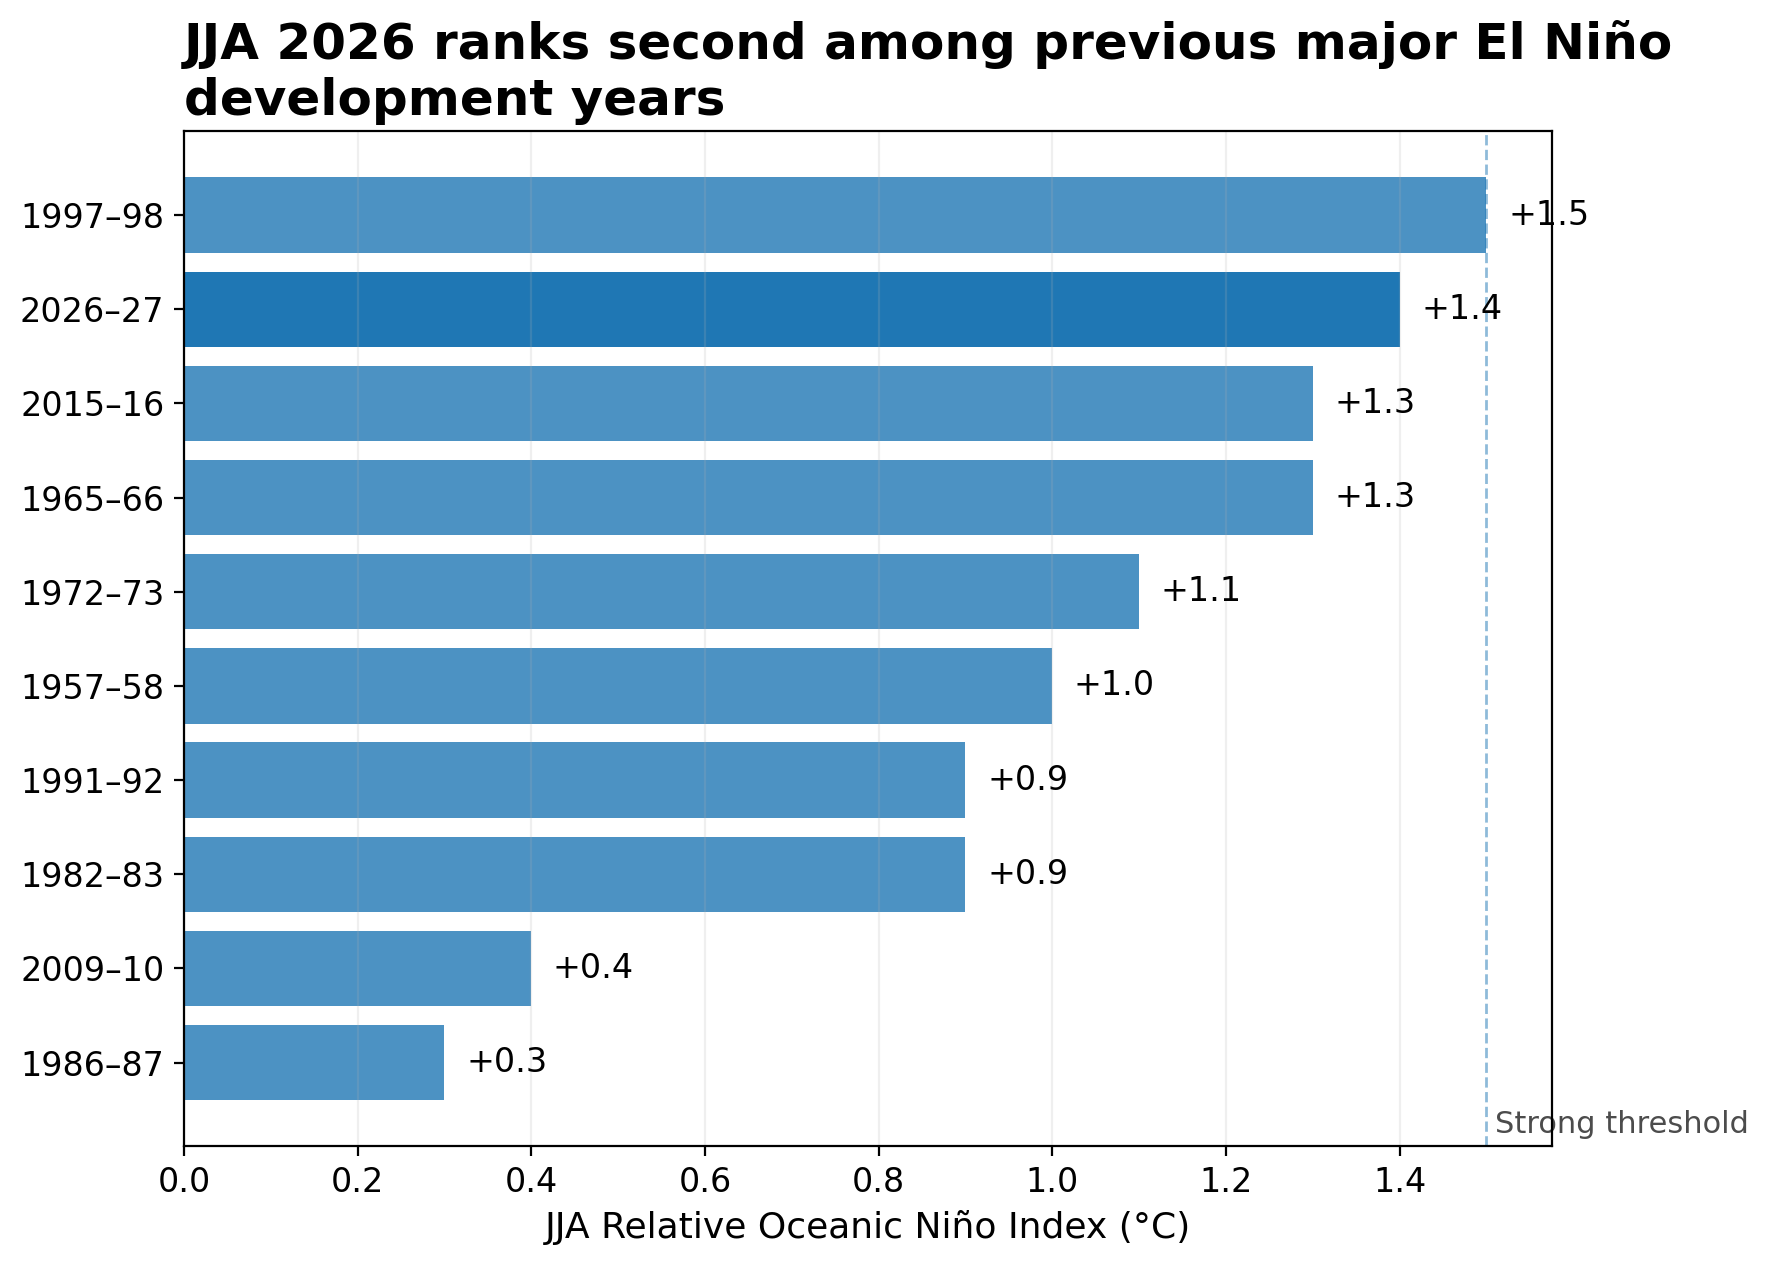
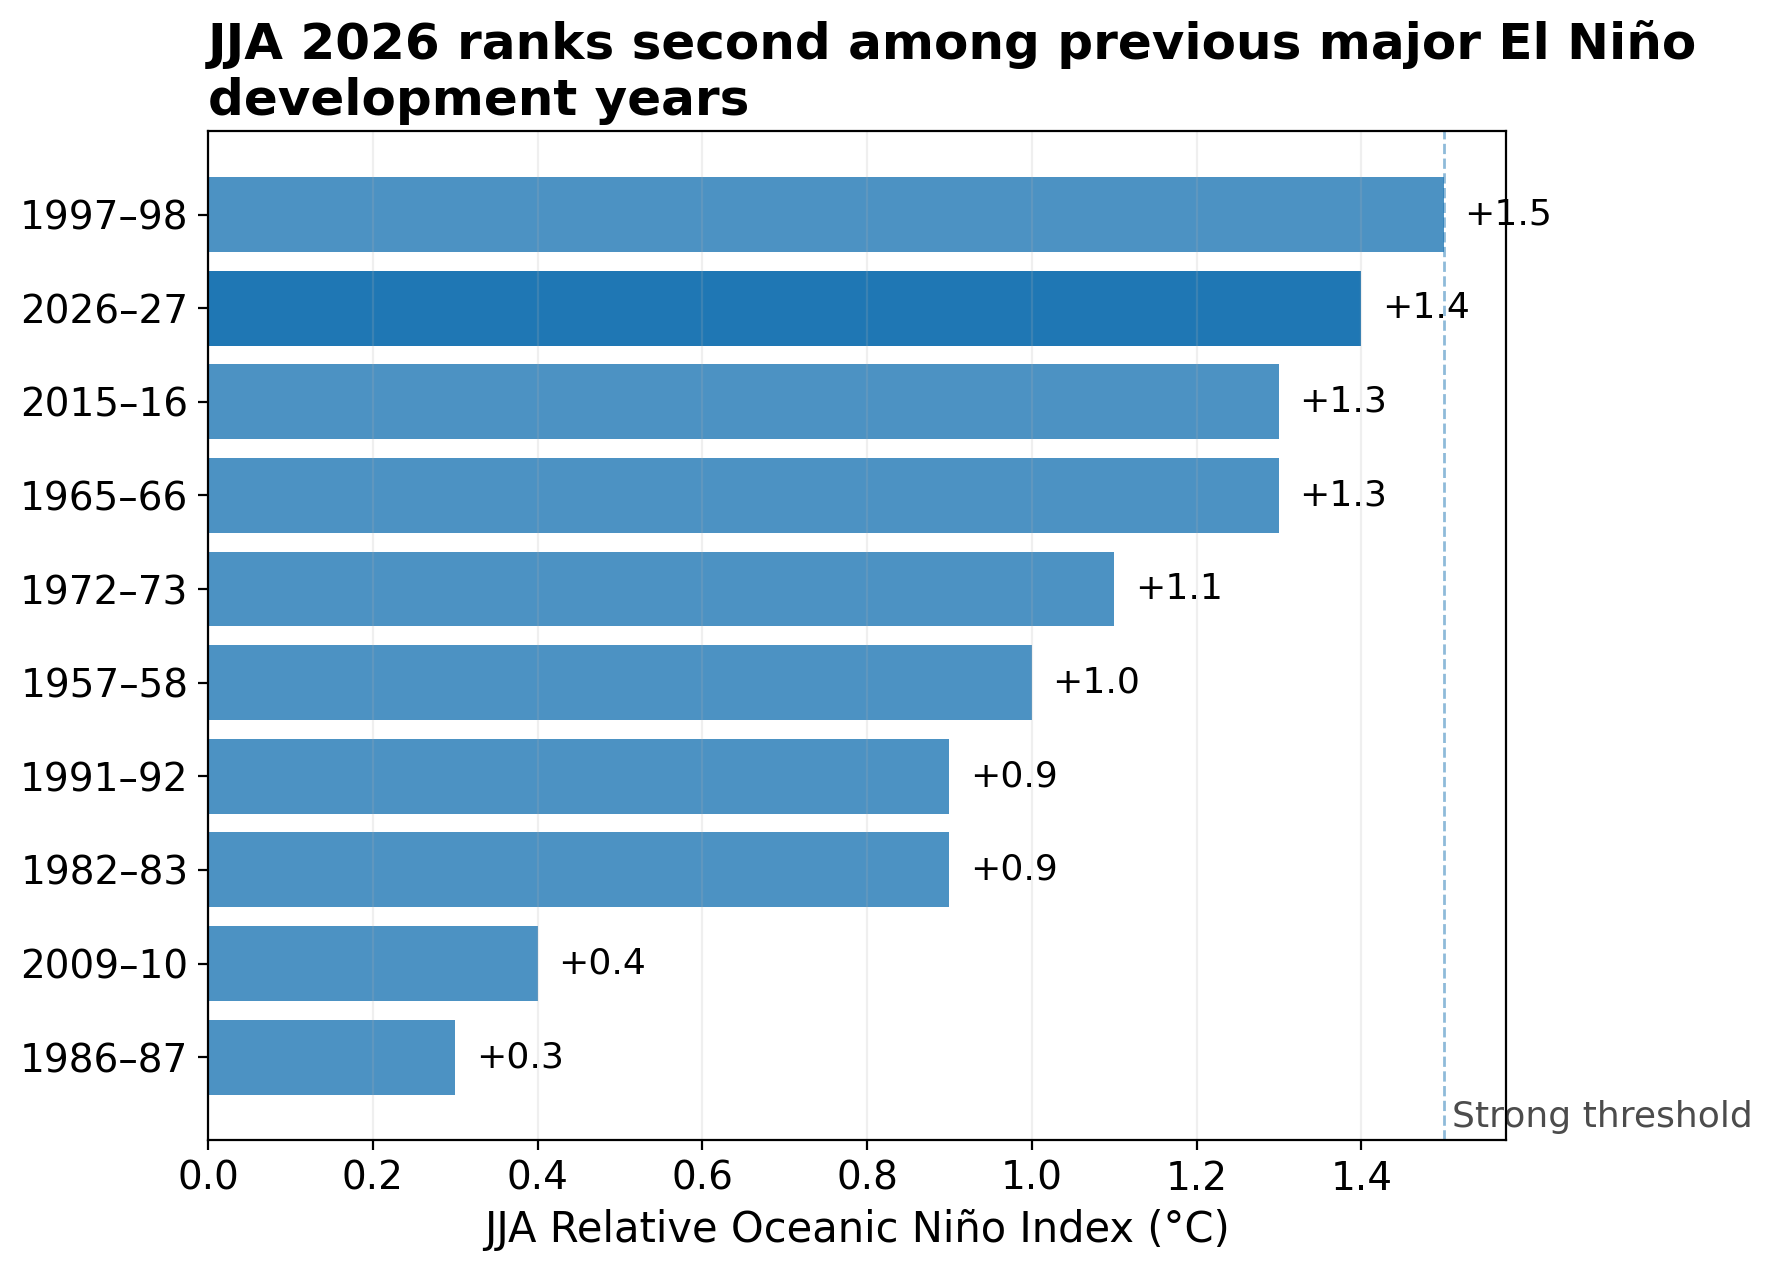
Refine RA01 chart typography

Changed region(s): [[0.0, 0.0, 0.9949, 0.9866], [0.8395, 0.0925, 0.8705, 0.1233]]

diff --git a/python/02_analyse_el_nino.py b/python/02_analyse_el_nino.py
@@ -16,6 +16,9 @@ CHART_DPI = 200
 TITLE_FONTSIZE = 18
 ANNOTATION_FONTSIZE = 11
 VALUE_LABEL_FONTSIZE = 12
+DETAIL_AXIS_LABEL_FONTSIZE = 15
+DETAIL_TICK_FONTSIZE = 14
+DETAIL_TEXT_FONTSIZE = 13
 
 plt.rcParams.update(
     {
@@ -380,7 +383,7 @@ def create_jja_ranking_chart(
             bar.get_y() + bar.get_height() / 2,
             f"{value:+.1f}",
             va="center",
-            fontsize=VALUE_LABEL_FONTSIZE,
+            fontsize=DETAIL_TEXT_FONTSIZE,
         )
 
     ax.axvline(
@@ -394,7 +397,7 @@ def create_jja_ranking_chart(
         1.51,
         -0.75,
         "Strong threshold",
-        fontsize=ANNOTATION_FONTSIZE,
+        fontsize=DETAIL_TEXT_FONTSIZE,
         alpha=0.7,
     )
 
@@ -405,8 +408,12 @@ def create_jja_ranking_chart(
         fontsize=TITLE_FONTSIZE,
         fontweight="bold",
     )
-    ax.set_xlabel("JJA Relative Oceanic Niño Index (°C)")
+    ax.set_xlabel(
+        "JJA Relative Oceanic Niño Index (°C)",
+        fontsize=DETAIL_AXIS_LABEL_FONTSIZE,
+    )
     ax.set_ylabel("")
+    ax.tick_params(axis="both", labelsize=DETAIL_TICK_FONTSIZE)
     ax.grid(axis="x", alpha=0.2)
 
     fig.tight_layout()
@@ -511,7 +518,7 @@ def create_forecast_chart(
         3.63,
         ax.get_ylim()[0] + 0.1,
         "Forecast",
-        fontsize=ANNOTATION_FONTSIZE,
+        fontsize=DETAIL_TEXT_FONTSIZE,
         alpha=0.7,
     )
 
@@ -524,13 +531,21 @@ def create_forecast_chart(
         fontsize=TITLE_FONTSIZE,
         fontweight="bold",
     )
-    ax.set_ylabel("Relative Oceanic Niño Index (°C)")
-    ax.set_xlabel("Overlapping three-month season")
+    ax.set_ylabel(
+        "Relative Oceanic Niño Index (°C)",
+        fontsize=DETAIL_AXIS_LABEL_FONTSIZE,
+    )
+    ax.set_xlabel(
+        "Overlapping three-month season",
+        fontsize=DETAIL_AXIS_LABEL_FONTSIZE,
+    )
+    ax.tick_params(axis="both", labelsize=DETAIL_TICK_FONTSIZE)
     ax.grid(axis="y", alpha=0.2)
 
     ax.legend(
         frameon=False,
         loc="upper left",
+        fontsize=DETAIL_TEXT_FONTSIZE,
     )
 
     fig.tight_layout()
